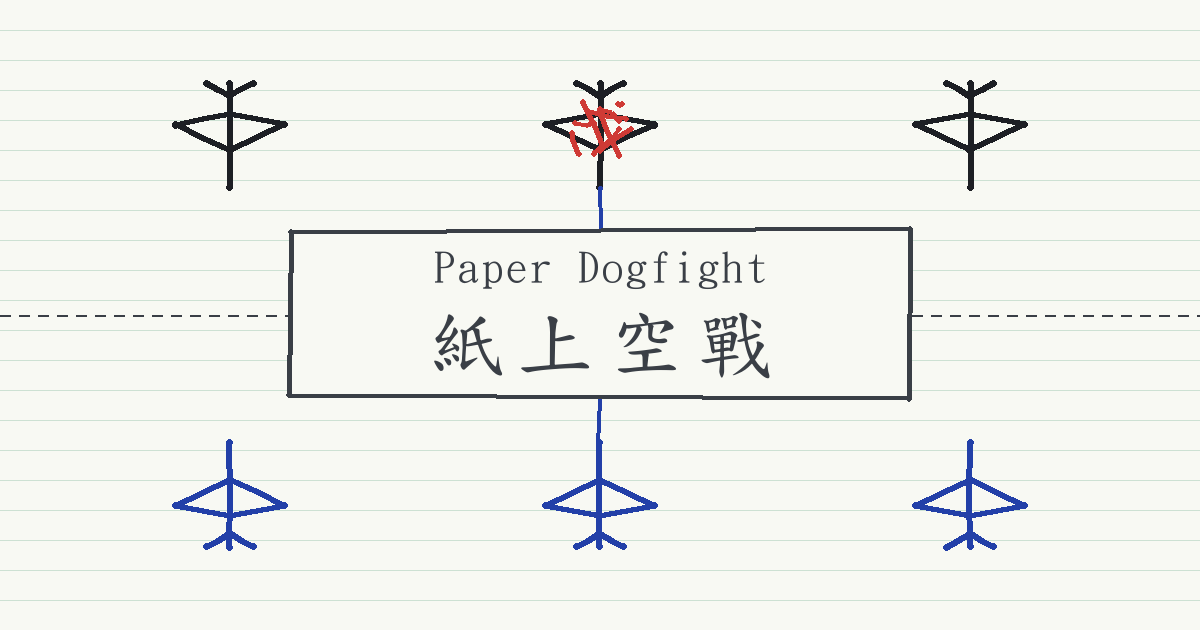
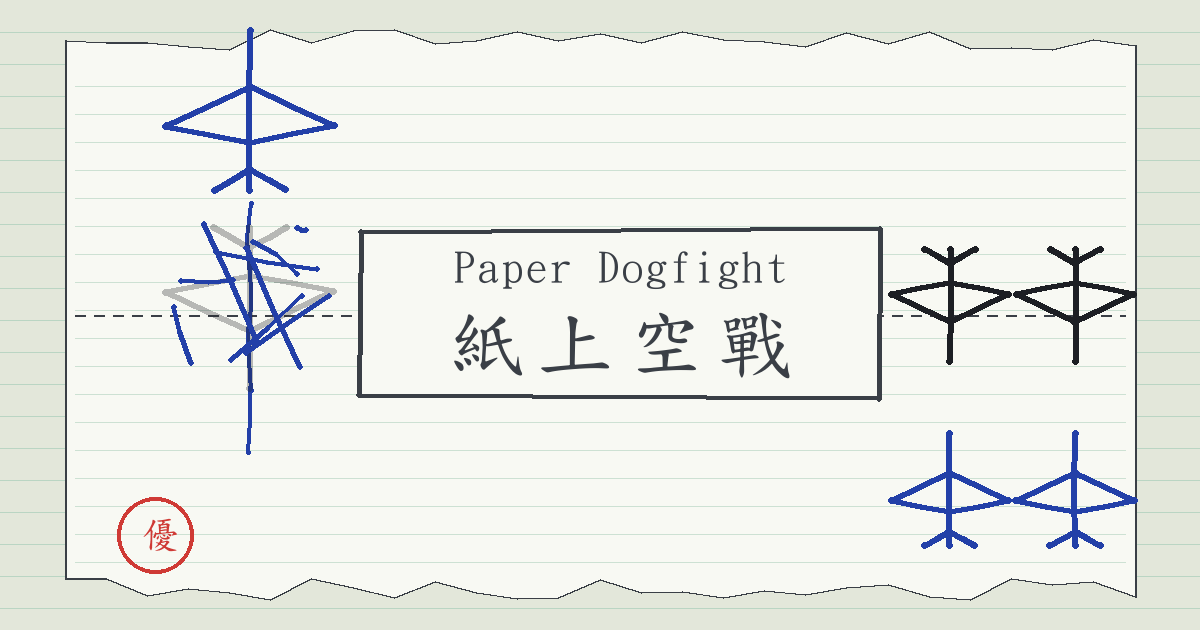
og-dogfight 修正(#18 orchestrator 退回):照遊戲畫法標記被打中的飛機
owner/orchestrator 更正:被打中的飛機不是紅叉——照 app.js 405–426,整架淡成
三成、用開火那一方的筆色塗掉(這裡是藍色),紅色是老師評語專用。同時修正:

- 藍色墨跡線改成整條都看得見,不再被標題橫幅擋住;線的盡頭就是開火那架飛機的
  新位置(rules.5),原來的格子留空。
- 飛機放大到 1.54 倍(scale 2.6 → 4.0),縮到 360px 寬還能看出形狀。
- 整張圖從「全部都是紙」改成桌面(#e3e7da + 綠格線)上一張撕下來的紙,四邊有
  撕過的鋸齒邊,不是簡單的圓角方框。
- 角落加一個裝飾用的紅筆等第章(呼應「紅色是老師的評語」),不代表打中。

og-bored-games.png 沒有變:make_cover() 和它用到的共用函式都沒有改,雜湊
跟上一版一樣(4c1f9b62…)。

diff --git a/art/og.py b/art/og.py
@@ -220,52 +220,116 @@ def draw_plane_toc_row(d, cx, y, txt, f):
     return total
 
 
+def torn_edge(x0, x1, y, seed, n=26, amp=10):
+    """一條撕過的紙邊:在 y 附近抖動,n 段。"""
+    pts = []
+    for i in range(n + 1):
+        t = i / n
+        x = x0 + (x1 - x0) * t
+        yy = y + (hash1(seed + i * 1.37) - 0.5) * 2 * amp
+        pts.append((x, yy))
+    return pts
+
+
+def torn_sheet(draw, x0, y0, x1, y1, fill, outline, seed=200, amp=11):
+    """撕下來的一張紙:上下兩邊撕過(抖動的鋸齒),左右兩邊是紙本來的邊(直的)。
+    沒有陰影、沒有漸層——只有一條描邊線。"""
+    top = torn_edge(x0, x1, y0, seed, amp=amp)
+    bottom = torn_edge(x0, x1, y1, seed + 500, amp=amp)
+    poly = top + list(reversed(bottom))
+    draw.polygon(poly, fill=fill)
+    draw.line(top, fill=outline, width=2, joint="curve")
+    draw.line(list(reversed(bottom)), fill=outline, width=2, joint="curve")
+    draw.line([top[0], bottom[0]], fill=outline, width=2)
+    draw.line([top[-1], bottom[-1]], fill=outline, width=2)
+    return top, bottom
+
+
 # ───────────────────────────── 紙上空戰:og-dogfight ─────────────────────────────
 def make_dogfight():
-    img = Image.new("RGB", (W, H), SHEET)
+    img = Image.new("RGB", (W, H), DESK)
     d = ImageDraw.Draw(img)
-    h_grid(d, 0, 0, W, H, 30, RULE_LIGHT)
+    h_grid(d, 0, 0, W, H, 32, RULE_ON_DESK)
 
-    fold_y = H / 2
-    dashed_line(d, 0, fold_y, W, PENCIL, 2)
+    # 桌面上撕下來的一張紙(#18 orchestrator 更正:整張圖不能都是紙,要看得到桌面
+    # 跟撕過的紙邊)。紙的範圍留夠邊界,格線、摺線、飛機都畫在紙的裡面。
+    px0, py0, px1, py1 = 65, 40, 1135, 590
+    torn_sheet(d, px0, py0, px1, py1, SHEET, PENCIL, seed=200, amp=11)
 
-    # 三架藍筆飛機(下方,座位 0),機頭朝上;三架黑筆飛機(上方,座位 1),機頭朝下。
-    xs = [230, 600, 970]
-    blue_y = 500
-    black_y = 130
-    scale = 2.6
+    gx0, gx1 = px0 + 10, px1 - 10
+    h_grid(d, gx0, py0 + 18, gx1, py1 - 14, 28, RULE_LIGHT)
 
+    fold_y = (py0 + py1) / 2
+    dashed_line(d, gx0, fold_y, gx1, PENCIL, 2)
+
+    # 三架黑筆飛機(上方,座位 1),機頭朝下;兩架藍筆飛機留在原地(下方,座位 0)。
+    # 第三架藍筆飛機開火之後移動到了線的盡頭(rules.5:線的盡頭就是那架飛機的新位置),
+    # 打中路上那架黑筆飛機——原來的位置(下方最左邊那格)現在是空的。
+    xs = [250, 950, 1075]  # 最左邊那欄是開火/被打中那一對;另外兩欄挪到標題橫幅右邊,不被蓋住
+    black_y = 300  # 被打中那架黑筆飛機(最左邊那欄)的原始位置
+    blue_y = 495
+    scale = 4.0  # 開火/被打中/新位置那三架比先前版本大 1.54 倍(≥ 1.5x,#18 orchestrator 的更正)
+    deco_scale = 2.8  # 純裝飾、跟標題橫幅同一排的那兩對飛機,紙的右邊空間有限,縮小一點
+
+    hit_i = 0  # 被打中的那架黑筆飛機(最左邊)
     for i, x in enumerate(xs):
-        draw_plane(d, x, black_y, 90, scale, BLACK, seed=10 + i * 7)
+        if i == hit_i:
+            continue  # 被打中那架另外畫(要淡成三成),不跟其他黑筆飛機一樣畫實心
+        draw_plane(d, x, black_y, 90, deco_scale, BLACK, seed=10 + i * 7)
     for i, x in enumerate(xs):
-        draw_plane(d, x, blue_y, -90, scale, BLUE, seed=60 + i * 7)
+        if i == hit_i:
+            continue  # 這一格空了:那架藍筆飛機飛到線的盡頭去了
+        draw_plane(d, x, blue_y, -90, deco_scale, BLUE, seed=60 + i * 7)
 
-    # 中間那架藍筆打中中間那架黑筆:一條藍筆線從藍飛機機頭出去,穿過摺線,
-    # 打在黑飛機上;那架黑飛機被紅筆打叉。
-    shot_from = (xs[1], blue_y - 22 * scale)
-    shot_to = (xs[1], black_y + 22 * scale)
-    for seg in range(3):
-        t0 = seg / 3
-        t1 = (seg + 1) / 3
-        p0 = (shot_from[0] + (shot_to[0] - shot_from[0]) * t0, shot_from[1] + (shot_to[1] - shot_from[1]) * t0)
-        p1 = (shot_from[0] + (shot_to[0] - shot_from[0]) * t1, shot_from[1] + (shot_to[1] - shot_from[1]) * t1)
-        sketch_line(d, p0, p1, seed=90 + seg, color=BLUE, width=4, amp=2.4)
+    fire_x = xs[hit_i]
+    new_y = 118  # 開火那架藍筆飛機的新位置:穿過黑筆飛機之後,線的盡頭(留在紙的上緣附近)
+    shot_from = (fire_x, blue_y - 22 * scale * 0.5)  # 原本那格的邊緣(那格現在是空的)
+    shot_to = (fire_x, new_y + 22 * scale)  # 打到新位置那架飛機的機尾
 
-    scribble(d, xs[1], black_y, 30, seed=120, color=RED, width=5)
+    # 墨跡線:抖動的藍筆線,整條清楚可見,沒有被任何框擋住,從空格一路畫到新位置。
+    for seg in range(4):
+        t0 = seg / 4
+        t1 = (seg + 1) / 4
+        p0 = (shot_from[0], shot_from[1] + (shot_to[1] - shot_from[1]) * t0)
+        p1 = (shot_from[0], shot_from[1] + (shot_to[1] - shot_from[1]) * t1)
+        sketch_line(d, p0, p1, seed=90 + seg, color=BLUE, width=4, amp=2.2)
 
-    # 標題橫幅,壓在摺線正中間:中文標題和飛機都落在正中間的 630×630 方塊裡。
-    band_w, band_h = 620, 168
-    bx0, by0 = W / 2 - band_w / 2, fold_y - band_h / 2
+    # 被打中的那架黑筆飛機:照遊戲畫法(app.js 405–426)——整架淡成三成(alpha .3),
+    # 再用開火那一方的筆色(這裡是藍)塗掉,不是紅叉(紅色在遊戲裡是老師的評語,不是打中的畫法)。
+    dead_img = Image.new("RGBA", (W, H), (0, 0, 0, 0))
+    dd = ImageDraw.Draw(dead_img)
+    draw_plane(dd, fire_x, black_y, 90, scale, BLACK, seed=10)
+    dead_img.putalpha(dead_img.getchannel("A").point(lambda a: round(a * 0.3)))
+    img.paste(dead_img, (0, 0), dead_img)
+    d = ImageDraw.Draw(img)
+    scribble(d, fire_x, black_y, scale * 20, seed=120, color=BLUE, width=5)
+
+    # 開火那架藍筆飛機:畫在線的盡頭(新位置),穿過敵機之後。
+    draw_plane(d, fire_x, new_y, -90, scale, BLUE, seed=140)
+
+    # 標題橫幅:離開那條線(線在最左邊那一欄),中文標題落在正中間的 630×630 方塊裡
+    # (H 已經是 630,x 落在 [285,915] 就一定在裁成正方形之後還看得到)。
+    band_w, band_h = 520, 168
+    bcx = 620  # 略右於正中央,避開最左邊那一欄的線跟飛機,但整塊都還在中間 630×630 方塊裡
+    bx0, by0 = bcx - band_w / 2, fold_y - band_h / 2
     bx1, by1 = bx0 + band_w, by0 + band_h
     irregular_rect(d, bx0, by0, bx1, by1, SHEET, PENCIL, seed=3, width=5, jitter_amp=4)
 
     f_en = font(42)
     f_cn = font(78)
-    cx = W / 2
+    cx = bcx
     y = by0 + 16
     text_centered(d, cx, y, "Paper Dogfight", f_en, PENCIL, spacing=3)
     y += text_height(d, "Paper Dogfight", f_en) + 18
     text_centered(d, cx, y, "紙上空戰", f_cn, PENCIL, spacing=12)
+
+    # 一點紅:角落一個老師評語式的等第章(.df-grade 的樣子),裝飾用,不代表「打中」——
+    # 放在左下角那個空格附近(那架藍筆飛機飛走留下的空位)。
+    gx, gy, gr = 155, 535, 38
+    d.ellipse([gx - gr, gy - gr, gx + gr, gy + gr], outline=RED, width=4)
+    f_grade = font(38)
+    bbox = d.textbbox((0, 0), "優", font=f_grade)
+    d.text((gx - (bbox[2] - bbox[0]) / 2 - bbox[0], gy - (bbox[3] - bbox[1]) / 2 - bbox[1]), "優", font=f_grade, fill=RED)
 
     return img
 
